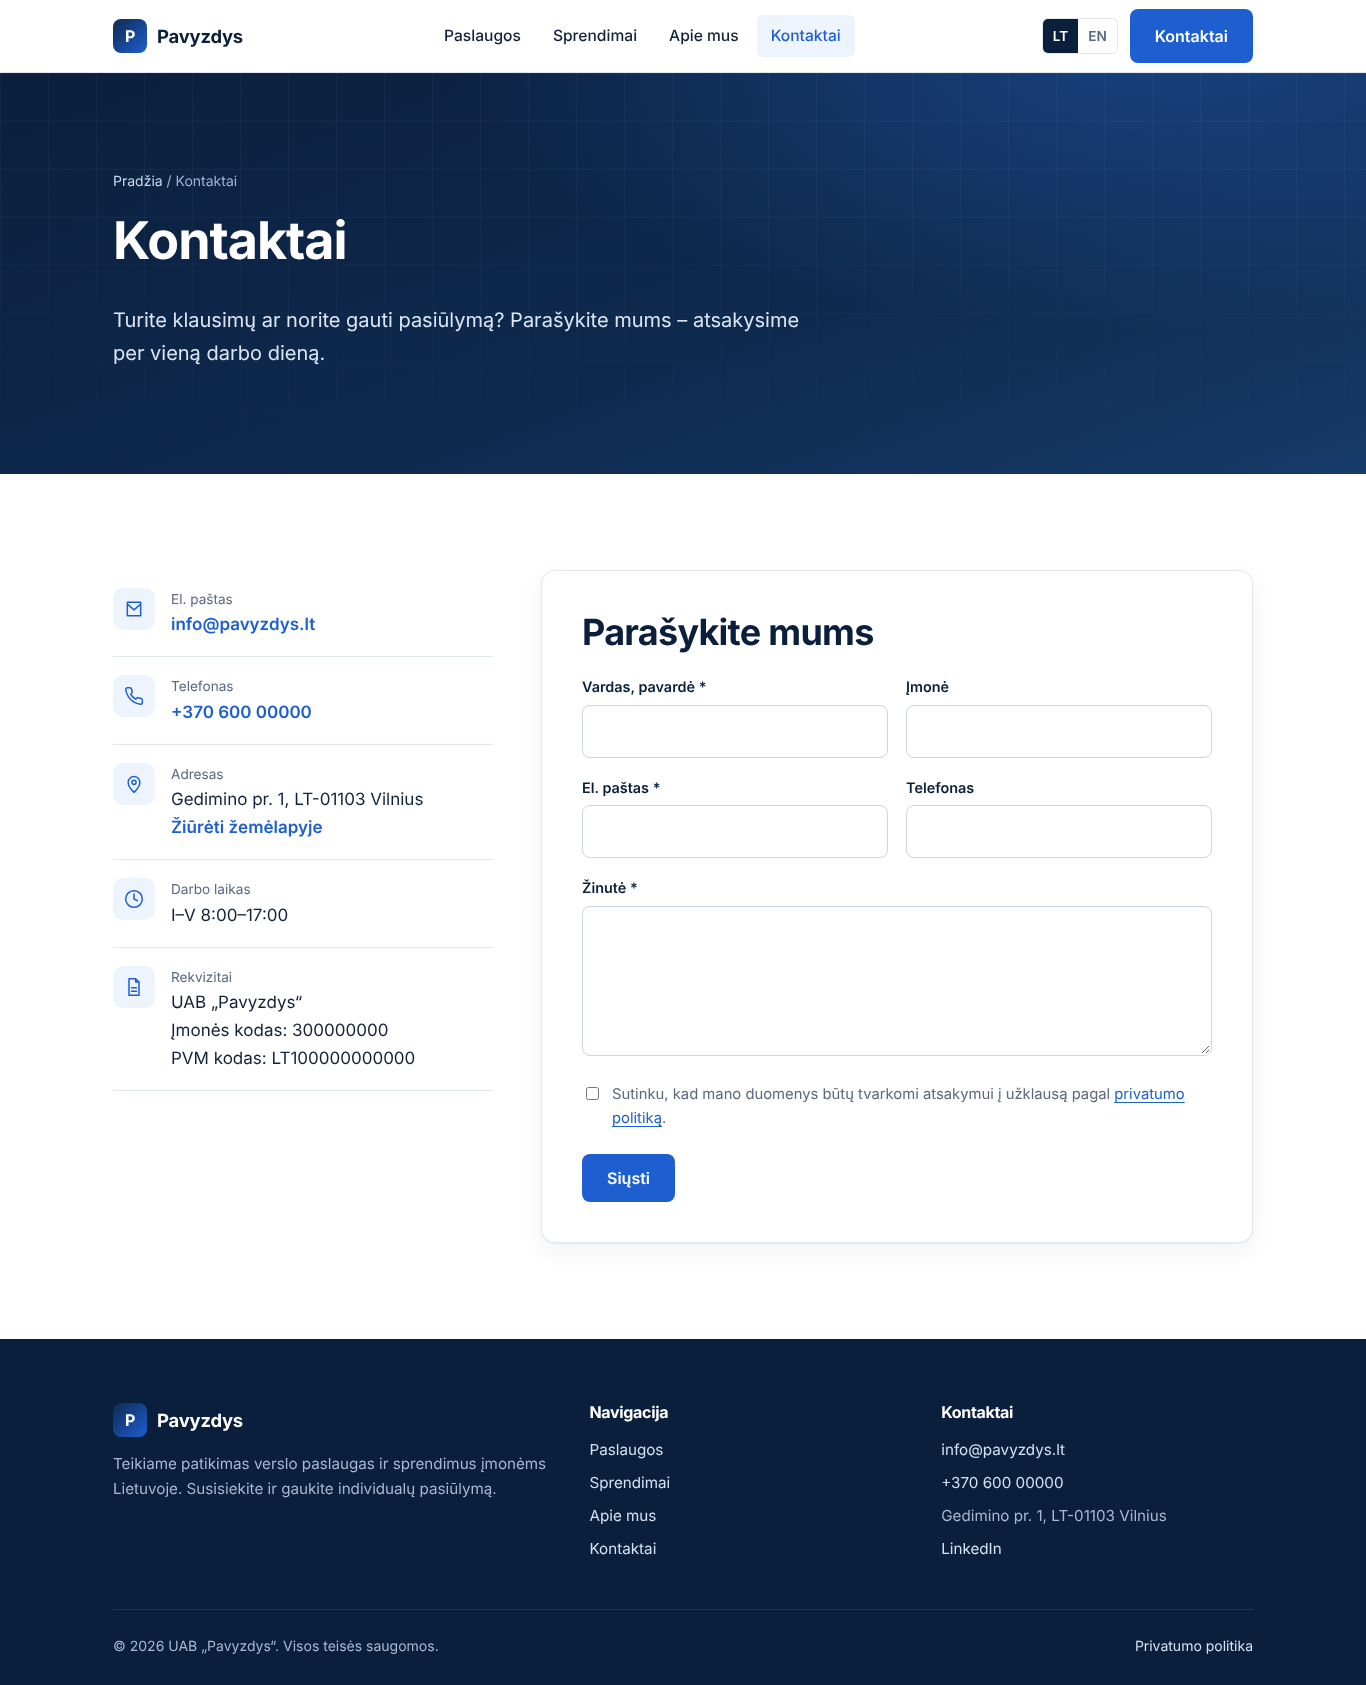
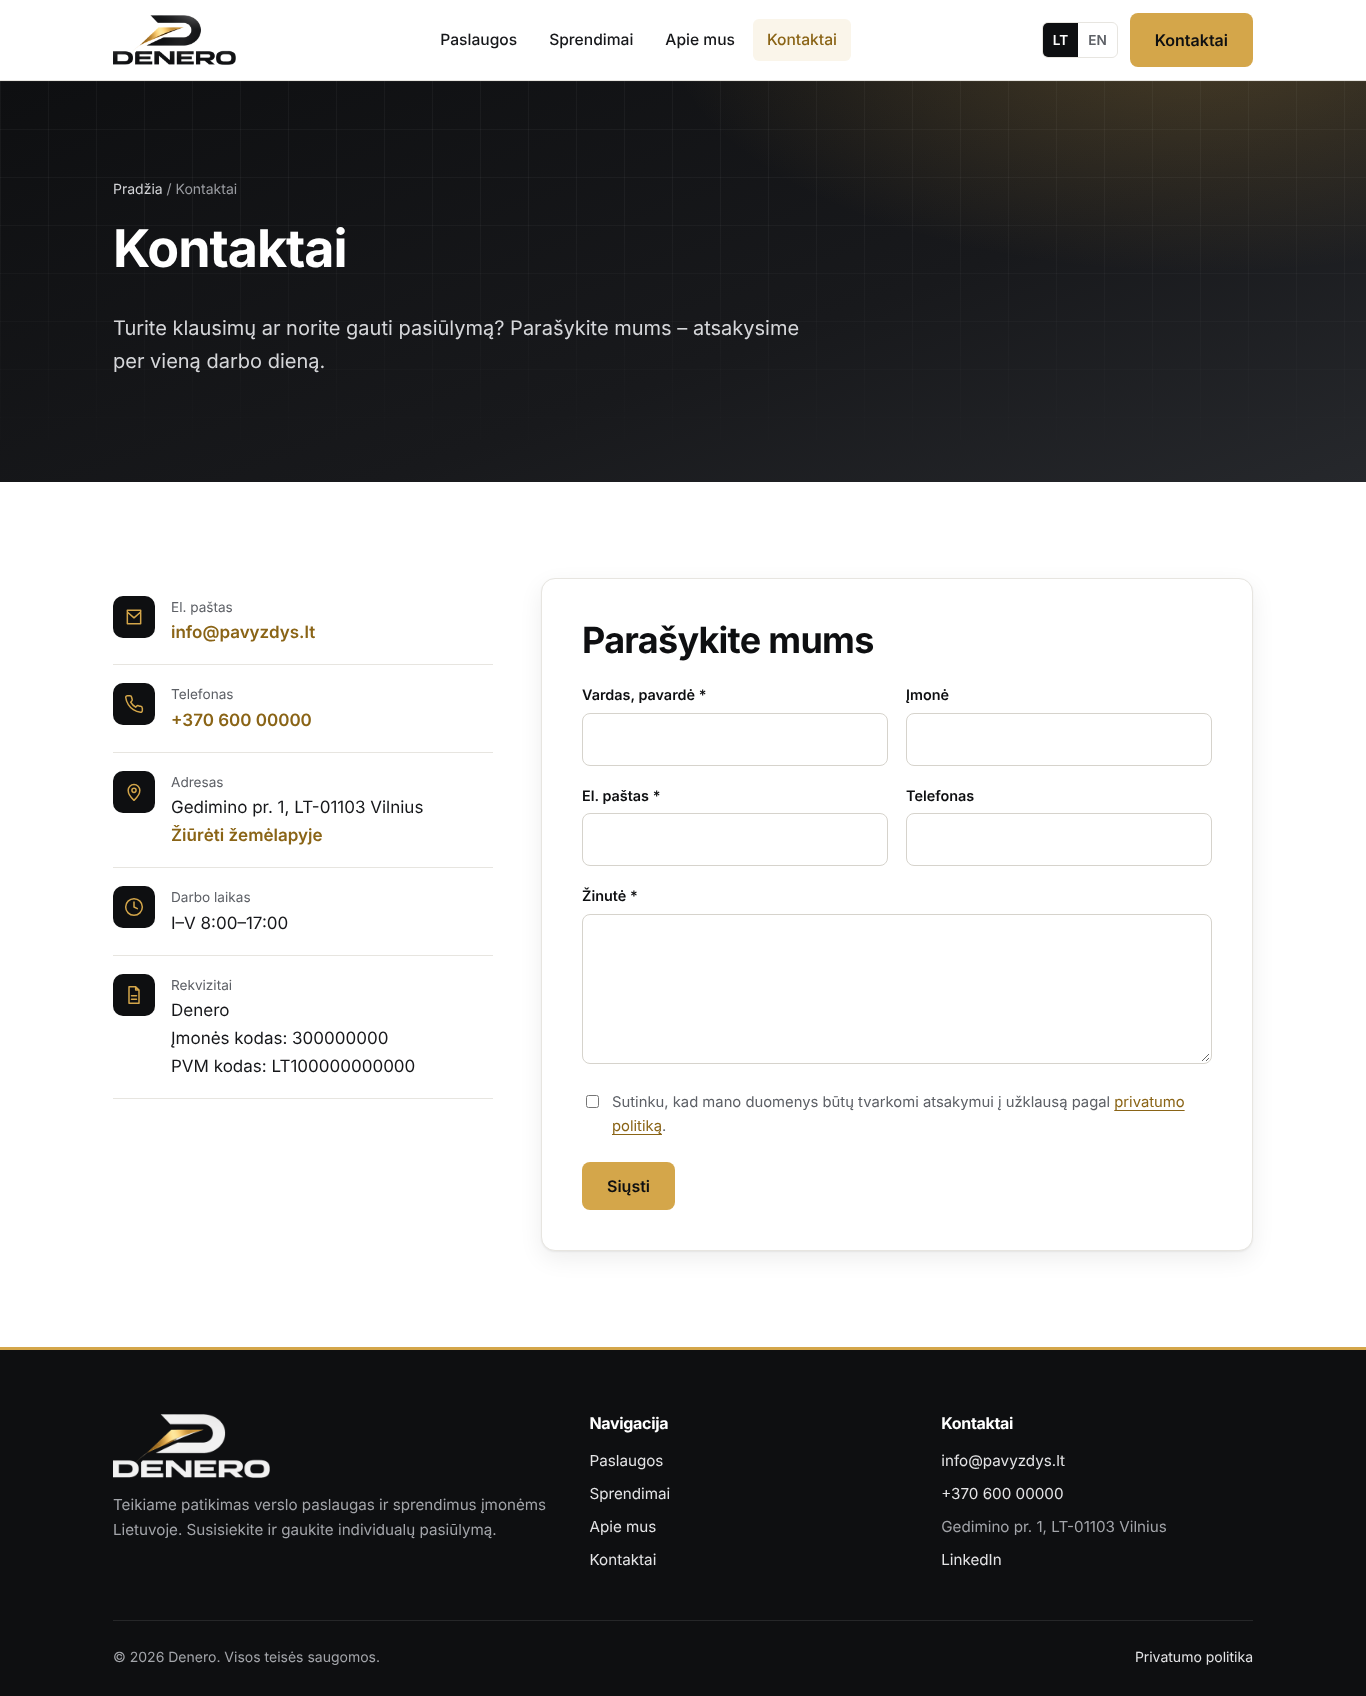
Add files via upload

diff --git a/src/styles/global.css b/src/styles/global.css
@@ -1,19 +1,22 @@
 @import '@fontsource-variable/inter';
 
 :root {
-  --navy-900: #0a1f3c;
-  --navy-800: #0f2a4f;
-  --navy-700: #163a69;
-  --blue-600: #1d5fd1;
-  --blue-500: #2f74e6;
-  --blue-50: #eef4fd;
-  --ink: #14213a;
-  --muted: #5a6880;
-  --line: #e2e7ef;
+  /* Denero: juoda + auksas */
+  --dark-900: #0e0f11;
+  --dark-800: #18191c;
+  --dark-700: #26282c;
+  --gold-300: #ecd08f;
+  --gold-500: #d4a64a;
+  --gold-600: #bf8f33;
+  --gold-700: #8a6416;  /* tekstui ant balto (kontrastas ≥ 4.5:1) */
+  --gold-50: #faf5ea;
+  --ink: #16171a;
+  --muted: #5d6066;
+  --line: #e7e5e0;
   --bg: #ffffff;
-  --bg-soft: #f5f7fb;
+  --bg-soft: #f7f6f3;
   --radius: 10px;
-  --shadow: 0 1px 2px rgba(10, 31, 60, .06), 0 8px 24px rgba(10, 31, 60, .06);
+  --shadow: 0 1px 2px rgba(14, 15, 17, .06), 0 8px 24px rgba(14, 15, 17, .07);
   --container: 1180px;
   --font: 'Inter Variable', system-ui, -apple-system, 'Segoe UI', Roboto, sans-serif;
 }
@@ -25,78 +28,80 @@ body {
   font-size: 1.0625rem; line-height: 1.65; -webkit-font-smoothing: antialiased;
 }
 img, svg { display: block; max-width: 100%; }
-a { color: var(--blue-600); text-decoration-thickness: 1px; text-underline-offset: 3px; }
-a:hover { color: var(--navy-700); }
-h1, h2, h3 { line-height: 1.2; letter-spacing: -0.02em; color: var(--navy-900); margin: 0 0 .6em; }
+a { color: var(--gold-700); text-decoration-thickness: 1px; text-underline-offset: 3px; }
+a:hover { color: var(--ink); }
+h1, h2, h3 { line-height: 1.2; letter-spacing: -0.02em; color: var(--dark-900); margin: 0 0 .6em; }
 h1 { font-size: clamp(2rem, 4.5vw, 3.25rem); font-weight: 700; }
 h2 { font-size: clamp(1.6rem, 3vw, 2.25rem); font-weight: 700; }
 h3 { font-size: 1.2rem; font-weight: 650; }
 p { margin: 0 0 1em; }
-:focus-visible { outline: 3px solid var(--blue-500); outline-offset: 2px; border-radius: 4px; }
+:focus-visible { outline: 3px solid var(--gold-500); outline-offset: 2px; border-radius: 4px; }
 
 .container { width: 100%; max-width: var(--container); margin: 0 auto; padding: 0 20px; }
 .section { padding: clamp(56px, 8vw, 96px) 0; }
 .section--soft { background: var(--bg-soft); }
 .section-head { max-width: 680px; margin-bottom: 40px; }
 .section-head p { color: var(--muted); font-size: 1.125rem; }
-.eyebrow { display: inline-block; font-size: .8125rem; font-weight: 600; letter-spacing: .08em; text-transform: uppercase; color: var(--blue-600); margin-bottom: 14px; }
+.eyebrow { display: inline-block; font-size: .8125rem; font-weight: 600; letter-spacing: .08em; text-transform: uppercase; color: var(--gold-700); margin-bottom: 14px; }
 
-.skip-link { position: absolute; left: -9999px; top: 8px; background: var(--navy-900); color: #fff; padding: 8px 14px; z-index: 100; }
+.skip-link { position: absolute; left: -9999px; top: 8px; background: var(--dark-900); color: #fff; padding: 8px 14px; z-index: 100; }
 .skip-link:focus { left: 8px; color: #fff; }
 
 /* Buttons */
 .btn { display: inline-flex; align-items: center; gap: 8px; padding: 13px 24px; border-radius: 8px; font-weight: 600; font-size: 1rem; text-decoration: none; border: 1px solid transparent; cursor: pointer; transition: background .15s, color .15s, border-color .15s; font-family: inherit; }
-.btn--primary { background: var(--blue-600); color: #fff; }
-.btn--primary:hover { background: var(--navy-700); color: #fff; }
+.btn--primary { background: var(--gold-500); color: var(--dark-900); }
+.btn--primary:hover { background: var(--gold-300); color: var(--dark-900); }
 .btn--ghost { border-color: rgba(255,255,255,.35); color: #fff; }
 .btn--ghost:hover { background: rgba(255,255,255,.1); color: #fff; }
-.btn--outline { border-color: var(--line); color: var(--navy-900); background: #fff; }
-.btn--outline:hover { border-color: var(--blue-600); color: var(--blue-600); }
+.btn--outline { border-color: var(--line); color: var(--dark-900); background: #fff; }
+.btn--outline:hover { border-color: var(--gold-600); color: var(--gold-700); }
 
 /* Header */
 .site-header { position: sticky; top: 0; z-index: 50; background: rgba(255,255,255,.96); backdrop-filter: saturate(180%) blur(8px); border-bottom: 1px solid var(--line); }
-.site-header .container { display: flex; align-items: center; justify-content: space-between; height: 72px; gap: 24px; }
-.logo { display: flex; align-items: center; gap: 10px; font-weight: 700; font-size: 1.15rem; color: var(--navy-900); text-decoration: none; letter-spacing: -0.01em; }
-.logo img { height: 36px; width: auto; }
-.logo-mark { width: 34px; height: 34px; border-radius: 8px; background: linear-gradient(135deg, var(--navy-800), var(--blue-600)); color: #fff; display: grid; place-items: center; font-size: 1rem; }
+.site-header .container { display: flex; align-items: center; justify-content: space-between; height: 80px; gap: 24px; }
+.logo { display: flex; align-items: center; gap: 10px; font-weight: 700; font-size: 1.15rem; color: var(--dark-900); text-decoration: none; letter-spacing: -0.01em; }
+.logo img { height: 50px; width: auto; }
+.site-footer .logo img { height: 64px; }
+.logo-mark { width: 34px; height: 34px; border-radius: 8px; background: var(--dark-900); color: var(--gold-500); display: grid; place-items: center; font-size: 1rem; }
 .nav { display: flex; align-items: center; gap: 4px; }
 .nav a { color: var(--ink); text-decoration: none; font-weight: 500; font-size: .975rem; padding: 8px 14px; border-radius: 6px; }
-.nav a:hover, .nav a[aria-current='page'] { color: var(--blue-600); background: var(--blue-50); }
+.nav a:hover, .nav a[aria-current='page'] { color: var(--gold-700); background: var(--gold-50); }
 .header-actions { display: flex; align-items: center; gap: 12px; }
 .lang-switch { display: flex; border: 1px solid var(--line); border-radius: 6px; overflow: hidden; font-size: .85rem; font-weight: 600; }
 .lang-switch a, .lang-switch span { padding: 6px 10px; text-decoration: none; color: var(--muted); }
-.lang-switch span { background: var(--navy-900); color: #fff; }
-.lang-switch a:hover { color: var(--blue-600); }
-.menu-toggle { display: none; background: none; border: 1px solid var(--line); border-radius: 6px; padding: 8px; cursor: pointer; color: var(--navy-900); }
+.lang-switch span { background: var(--dark-900); color: #fff; }
+.lang-switch a:hover { color: var(--gold-700); }
+.menu-toggle { display: none; background: none; border: 1px solid var(--line); border-radius: 6px; padding: 8px; cursor: pointer; color: var(--dark-900); }
 
 @media (max-width: 900px) {
   .menu-toggle { display: inline-flex; }
-  .nav { display: none; position: absolute; left: 0; right: 0; top: 72px; flex-direction: column; align-items: stretch; background: #fff; border-bottom: 1px solid var(--line); padding: 12px 20px 20px; box-shadow: var(--shadow); }
+  .nav { display: none; position: absolute; left: 0; right: 0; top: 80px; flex-direction: column; align-items: stretch; background: #fff; border-bottom: 1px solid var(--line); padding: 12px 20px 20px; box-shadow: var(--shadow); }
   .nav.is-open { display: flex; }
   .nav a { padding: 12px; }
   .header-cta { display: none; }
 }
 
 /* Hero */
-.hero { background: radial-gradient(1200px 500px at 85% -10%, rgba(47,116,230,.35), transparent 60%), linear-gradient(160deg, var(--navy-900), var(--navy-800) 60%, var(--navy-700)); color: #dbe5f5; padding: clamp(72px, 11vw, 140px) 0 clamp(64px, 9vw, 112px); position: relative; overflow: hidden; }
+.hero { background: radial-gradient(900px 420px at 88% -15%, rgba(212,166,74,.28), transparent 60%), linear-gradient(160deg, var(--dark-900), var(--dark-800) 60%, var(--dark-700)); color: #d6d7da; padding: clamp(72px, 11vw, 140px) 0 clamp(64px, 9vw, 112px); position: relative; overflow: hidden; }
 .hero::after { content: ''; position: absolute; inset: 0; background-image: linear-gradient(rgba(255,255,255,.04) 1px, transparent 1px), linear-gradient(90deg, rgba(255,255,255,.04) 1px, transparent 1px); background-size: 48px 48px; mask-image: linear-gradient(to bottom, #000 30%, transparent); pointer-events: none; }
 .hero .container { position: relative; z-index: 1; }
 .hero h1 { color: #fff; max-width: 820px; }
 .hero p { font-size: clamp(1.05rem, 1.6vw, 1.25rem); max-width: 640px; margin-bottom: 32px; }
-.hero .eyebrow { color: #8fb6f5; }
+.hero .eyebrow { color: var(--gold-300); }
+.hero h1 em { font-style: normal; color: var(--gold-500); }
 .hero-actions { display: flex; flex-wrap: wrap; gap: 12px; }
 .page-hero { padding: clamp(56px, 8vw, 96px) 0 clamp(48px, 6vw, 72px); }
 .page-hero p { max-width: 700px; }
-.breadcrumbs { font-size: .875rem; margin-bottom: 18px; color: #9fb3d4; }
-.breadcrumbs a { color: #c9d7ee; text-decoration: none; }
-.breadcrumbs a:hover { color: #fff; }
+.breadcrumbs { font-size: .875rem; margin-bottom: 18px; color: #9a9ca1; }
+.breadcrumbs a { color: #d2d3d6; text-decoration: none; }
+.breadcrumbs a:hover { color: var(--gold-300); }
 
 /* Cards */
 .grid { display: grid; gap: 24px; grid-template-columns: repeat(auto-fill, minmax(min(100%, 320px), 1fr)); }
 .card { background: #fff; border: 1px solid var(--line); border-radius: var(--radius); padding: 32px; display: flex; flex-direction: column; transition: box-shadow .2s, transform .2s, border-color .2s; }
-.card:hover { box-shadow: var(--shadow); transform: translateY(-2px); border-color: #cfd8e6; }
+.card:hover { box-shadow: var(--shadow); transform: translateY(-2px); border-color: var(--gold-500); }
 .card p { color: var(--muted); flex: 1; }
-.card .icon { width: 48px; height: 48px; border-radius: 10px; background: var(--blue-50); color: var(--blue-600); display: grid; place-items: center; margin-bottom: 20px; }
+.card .icon { width: 48px; height: 48px; border-radius: 10px; background: var(--dark-900); color: var(--gold-500); display: grid; place-items: center; margin-bottom: 20px; }
 .card-link { font-weight: 600; text-decoration: none; display: inline-flex; align-items: center; gap: 6px; }
 .card-link::after { content: '→'; transition: transform .15s; }
 .card:hover .card-link::after { transform: translateX(3px); }
@@ -104,21 +109,19 @@ p { margin: 0 0 1em; }
 /* Stats */
 .stats { display: grid; grid-template-columns: repeat(4, 1fr); gap: 1px; background: var(--line); border: 1px solid var(--line); border-radius: var(--radius); overflow: hidden; margin-top: -48px; position: relative; z-index: 2; box-shadow: var(--shadow); }
 .stat { background: #fff; padding: 28px 24px; text-align: center; }
-.stat strong { display: block; font-size: 2rem; color: var(--navy-900); letter-spacing: -0.02em; }
+.stat strong { display: block; font-size: 2rem; color: var(--dark-900); letter-spacing: -0.02em; }
 .stat span { color: var(--muted); font-size: .95rem; }
 @media (max-width: 720px) { .stats { grid-template-columns: repeat(2, 1fr); } }
 
 .why { display: grid; grid-template-columns: repeat(3, 1fr); gap: 32px; }
-.why-item { border-top: 3px solid var(--blue-600); padding-top: 20px; }
+.why-item { border-top: 3px solid var(--gold-500); padding-top: 20px; }
 .why-item p { color: var(--muted); }
 @media (max-width: 800px) { .why { grid-template-columns: 1fr; } }
 
 /* CTA band */
-.cta-band { background: linear-gradient(135deg, var(--navy-800), var(--blue-600)); color: #e3ecfa; border-radius: 14px; padding: clamp(32px, 5vw, 56px); display: flex; align-items: center; justify-content: space-between; gap: 24px; flex-wrap: wrap; }
+.cta-band { background: radial-gradient(600px 300px at 100% 0%, rgba(212,166,74,.3), transparent 70%), linear-gradient(135deg, var(--dark-900), var(--dark-700)); color: #d6d7da; border-left: 4px solid var(--gold-500); border-radius: 14px; padding: clamp(32px, 5vw, 56px); display: flex; align-items: center; justify-content: space-between; gap: 24px; flex-wrap: wrap; }
 .cta-band h2 { color: #fff; margin-bottom: .3em; }
 .cta-band p { margin: 0; }
-.cta-band .btn--primary { background: #fff; color: var(--navy-900); }
-.cta-band .btn--primary:hover { background: var(--blue-50); }
 
 /* Prose */
 .prose { max-width: 760px; }
@@ -130,7 +133,7 @@ p { margin: 0 0 1em; }
 .aside-box { background: var(--bg-soft); border: 1px solid var(--line); border-radius: var(--radius); padding: 28px; position: sticky; top: 96px; }
 .aside-box ul { list-style: none; padding: 0; margin: 0 0 20px; }
 .aside-box li { padding: 8px 0 8px 28px; position: relative; border-bottom: 1px solid var(--line); }
-.aside-box li::before { content: '✓'; position: absolute; left: 0; color: var(--blue-600); font-weight: 700; }
+.aside-box li::before { content: '✓'; position: absolute; left: 0; color: var(--gold-600); font-weight: 700; }
 @media (max-width: 900px) { .detail { grid-template-columns: 1fr; } .aside-box { position: static; } }
 
 /* Contact */
@@ -138,25 +141,26 @@ p { margin: 0 0 1em; }
 @media (max-width: 900px) { .contact-grid { grid-template-columns: 1fr; } }
 .contact-list { list-style: none; padding: 0; margin: 0; }
 .contact-list li { display: flex; gap: 16px; padding: 18px 0; border-bottom: 1px solid var(--line); }
-.contact-list .icon { flex: none; width: 42px; height: 42px; border-radius: 10px; background: var(--blue-50); color: var(--blue-600); display: grid; place-items: center; }
+.contact-list .icon { flex: none; width: 42px; height: 42px; border-radius: 10px; background: var(--dark-900); color: var(--gold-500); display: grid; place-items: center; }
 .contact-list small { display: block; color: var(--muted); font-size: .85rem; }
 .contact-list a { text-decoration: none; font-weight: 600; }
 .form-card { background: #fff; border: 1px solid var(--line); border-radius: 14px; padding: clamp(24px, 4vw, 40px); box-shadow: var(--shadow); }
 .form-grid { display: grid; grid-template-columns: 1fr 1fr; gap: 18px; }
 .form-grid .full { grid-column: 1 / -1; }
 @media (max-width: 600px) { .form-grid { grid-template-columns: 1fr; } }
-label { display: block; font-weight: 600; font-size: .9rem; margin-bottom: 6px; color: var(--navy-900); }
-input, textarea { width: 100%; font: inherit; font-size: 1rem; padding: 12px 14px; border: 1px solid #cdd5e1; border-radius: 8px; background: #fff; color: var(--ink); }
-input:focus, textarea:focus { outline: none; border-color: var(--blue-500); box-shadow: 0 0 0 3px rgba(47,116,230,.18); }
+label { display: block; font-weight: 600; font-size: .9rem; margin-bottom: 6px; color: var(--dark-900); }
+input, textarea { width: 100%; font: inherit; font-size: 1rem; padding: 12px 14px; border: 1px solid #d6d3cc; border-radius: 8px; background: #fff; color: var(--ink); }
+input:focus, textarea:focus { outline: none; border-color: var(--gold-600); box-shadow: 0 0 0 3px rgba(212,166,74,.25); }
+.checkbox input { accent-color: var(--gold-600); }
 textarea { min-height: 150px; resize: vertical; }
 .checkbox { display: flex; gap: 10px; align-items: flex-start; font-weight: 400; font-size: .925rem; color: var(--muted); }
 .checkbox input { width: auto; margin-top: 5px; }
 .hp { position: absolute; left: -9999px; width: 1px; height: 1px; overflow: hidden; }
 
 /* Footer */
-.site-footer { background: var(--navy-900); color: #a9b8d0; padding: 64px 0 28px; font-size: .95rem; }
-.site-footer a { color: #d5e0f1; text-decoration: none; }
-.site-footer a:hover { color: #fff; }
+.site-footer { background: var(--dark-900); color: #a3a5aa; border-top: 3px solid var(--gold-500); padding: 64px 0 28px; font-size: .95rem; }
+.site-footer a { color: #e4e4e6; text-decoration: none; }
+.site-footer a:hover { color: var(--gold-300); }
 .footer-grid { display: grid; grid-template-columns: 1.4fr 1fr 1fr; gap: 40px; padding-bottom: 40px; border-bottom: 1px solid rgba(255,255,255,.1); }
 .footer-grid h2 { color: #fff; font-size: 1rem; margin-bottom: 14px; }
 .footer-grid ul { list-style: none; padding: 0; margin: 0; }

diff --git a/src/content/pages/lt/privacy.md b/src/content/pages/lt/privacy.md
@@ -6,7 +6,7 @@ seo_description: Informacija apie tai, kaip renkame ir tvarkome asmens duomenis.
 
 ## Duomenų valdytojas
 
-UAB „Pavyzdys“, įmonės kodas 300000000, Gedimino pr. 1, Vilnius, el. paštas info@pavyzdys.lt.
+Denero, įmonės kodas 300000000, Gedimino pr. 1, Vilnius, el. paštas info@pavyzdys.lt.
 
 ## Kokius duomenis renkame
 

diff --git a/src/content/pages/en/privacy.md b/src/content/pages/en/privacy.md
@@ -6,7 +6,7 @@ seo_description: Information about how we collect and process personal data.
 
 ## Data controller
 
-UAB "Pavyzdys", company code 300000000, Gedimino pr. 1, Vilnius, email info@pavyzdys.lt.
+Denero, company code 300000000, Gedimino pr. 1, Vilnius, email info@pavyzdys.lt.
 
 ## Data we collect
 
